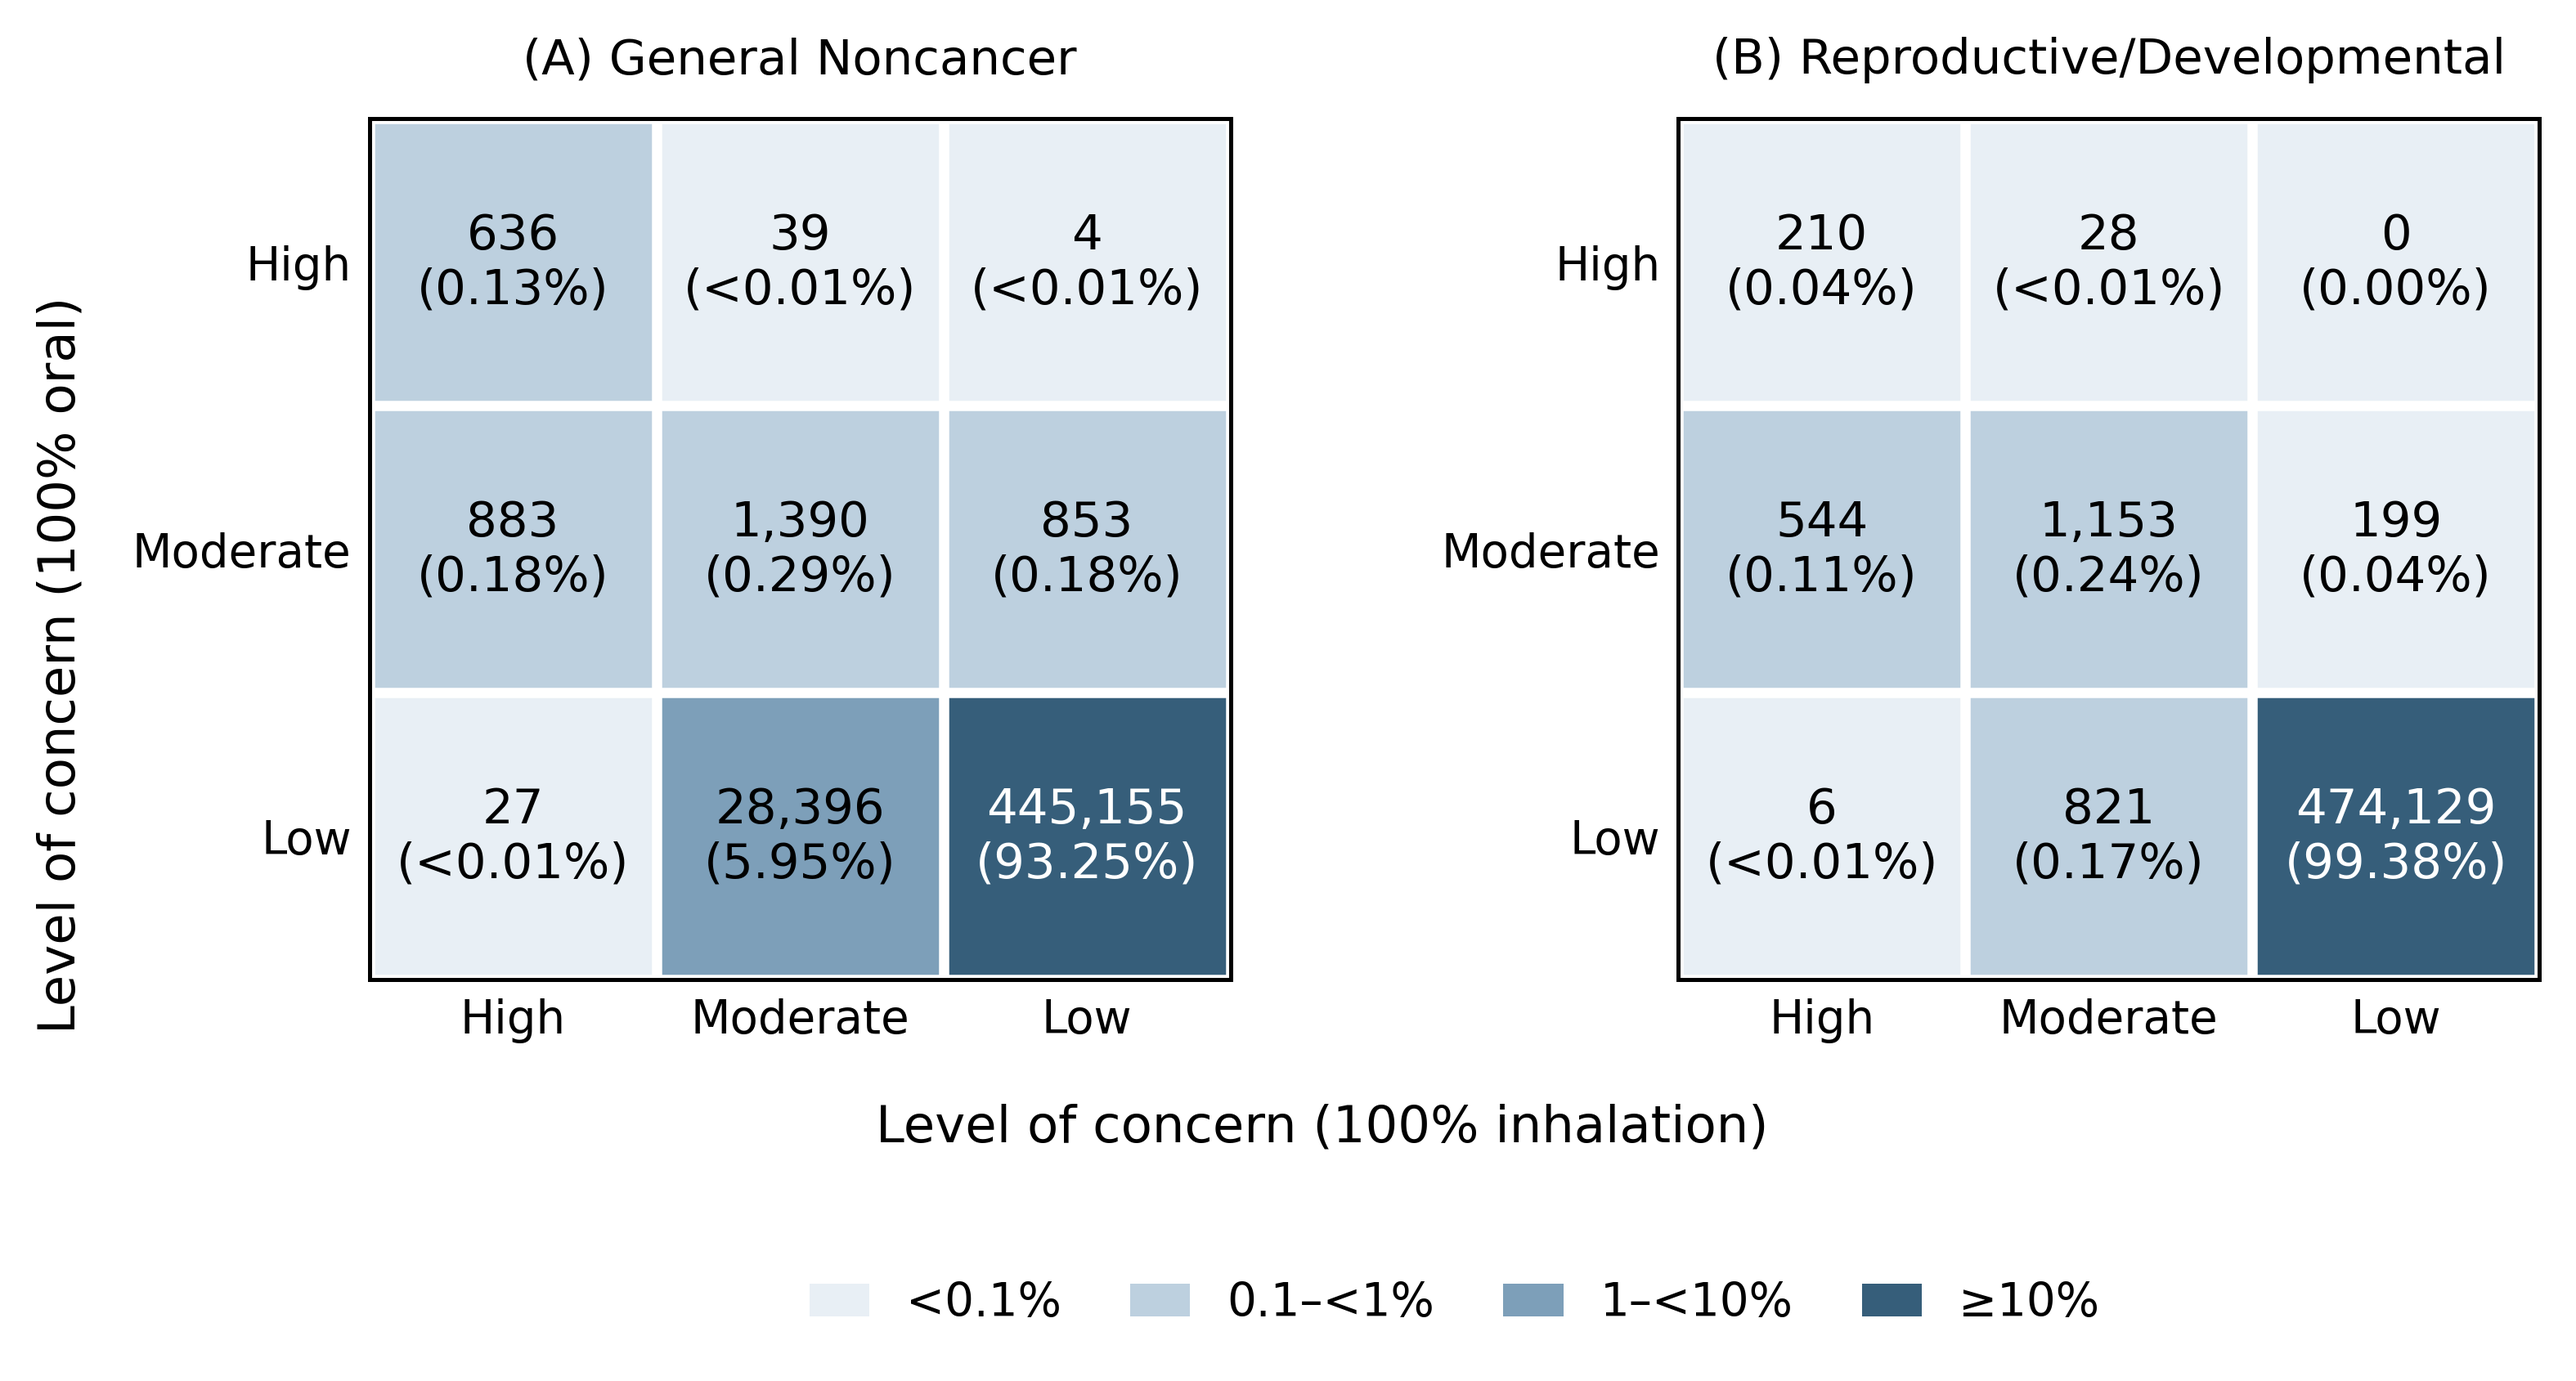
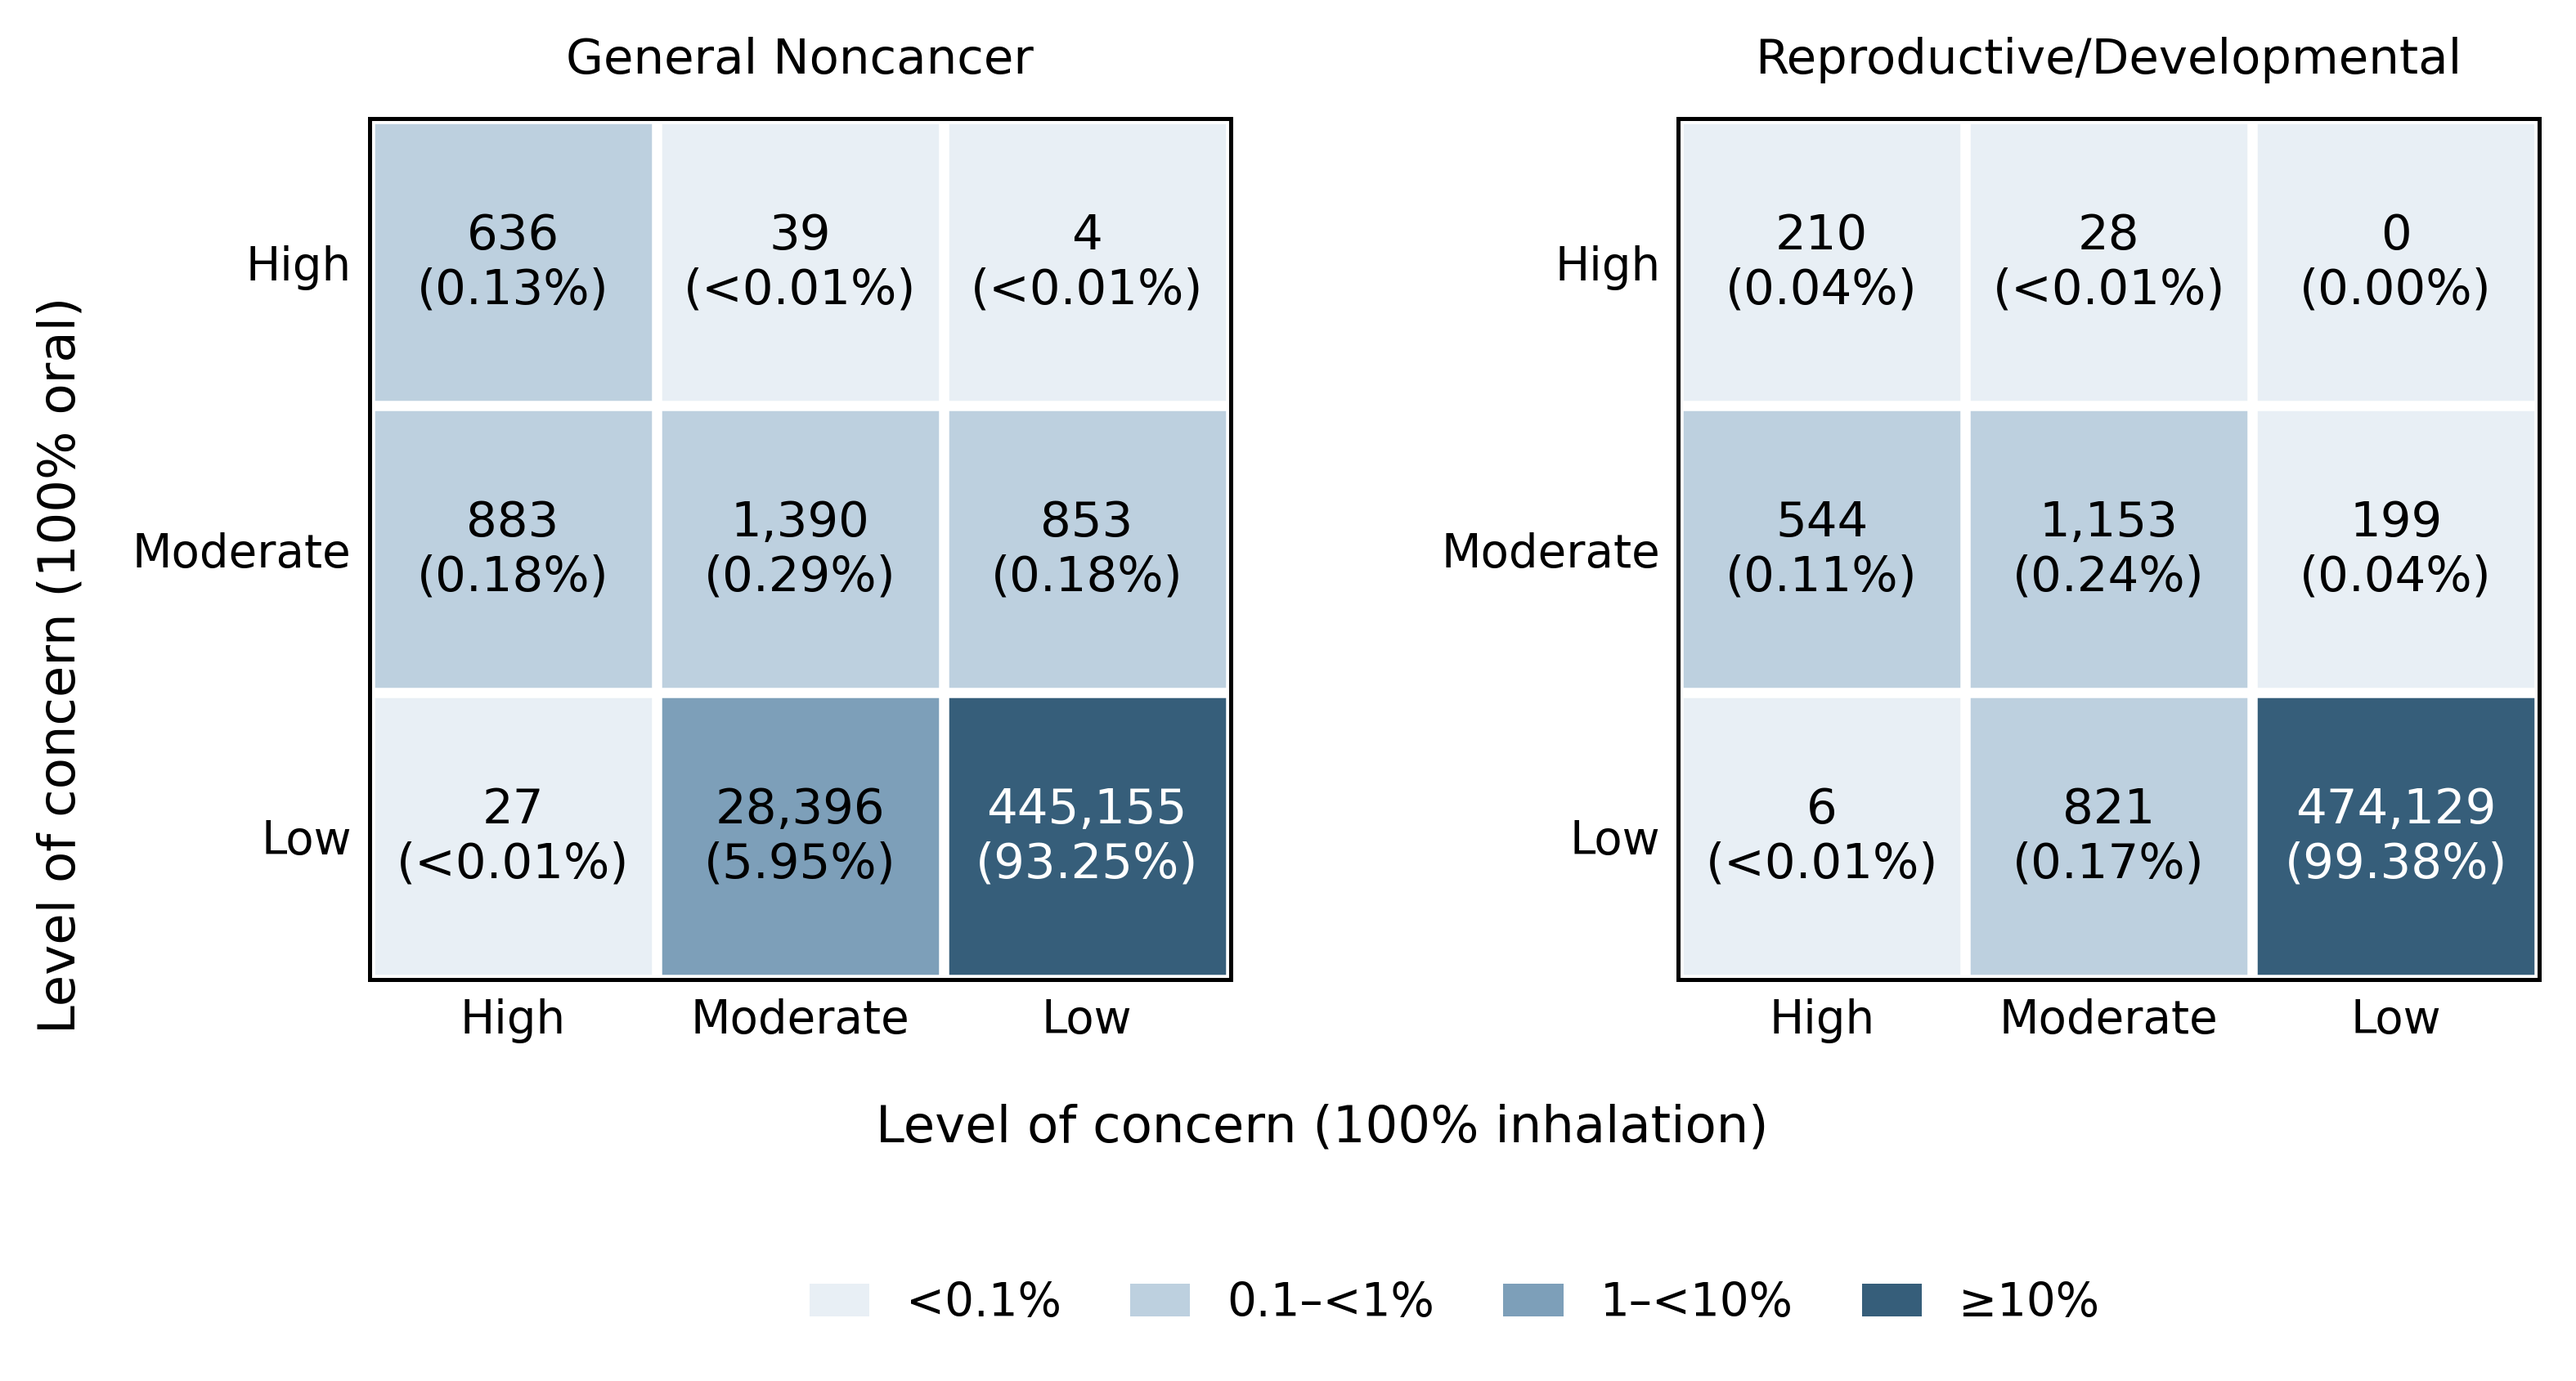
Match route-allocation headings to manuscript convention

Changed region(s): [[0.6533, 0.0308, 0.9644, 0.0616], [0.1867, 0.0308, 0.4356, 0.0616]]

diff --git a/plotting/moe.py b/plotting/moe.py
@@ -56,15 +56,14 @@ def route_allocation_heatmap(table_file, output_dir=None):
     cmap = ListedColormap(colors)
     norm = BoundaryNorm([0, 0.1, 1, 10, 101], cmap.N, clip=True)
     categories = ['High', 'Moderate', 'Low']
-    for letter, axis, (endpoint, counts, labels, total) in zip(
-            'AB', axes, panels):
+    for axis, (endpoint, counts, labels, total) in zip(axes, panels):
         percentages = counts / total * 100
         axis.imshow(percentages, cmap=cmap, norm=norm)
         axis.set(
             xticks=range(3), xticklabels=categories,
             yticks=range(3), yticklabels=categories,
         )
-        axis.set_title(f'({letter}) {endpoint}', fontsize=9.5, pad=9)
+        axis.set_title(endpoint, fontsize=9.5, pad=9)
         axis.set_xticks(np.arange(-0.5, 3, 1), minor=True)
         axis.set_yticks(np.arange(-0.5, 3, 1), minor=True)
         axis.grid(which='minor', color='white', linewidth=2)
